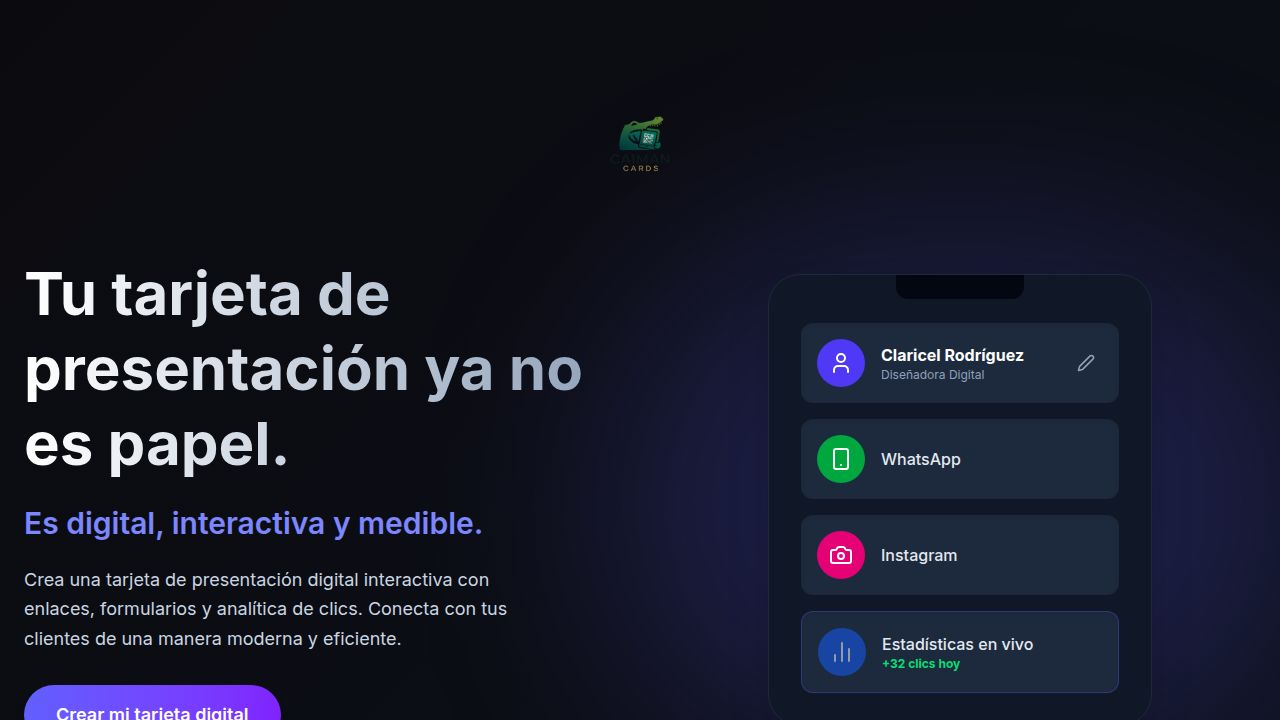
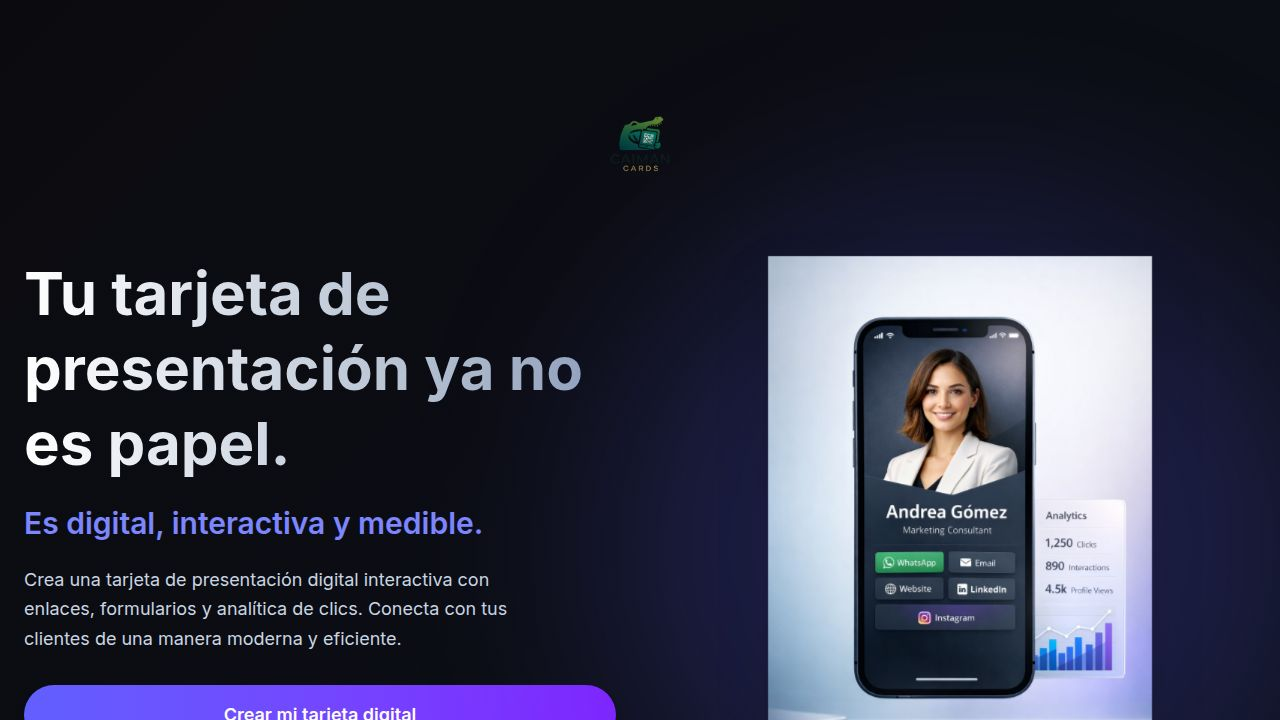
Update hero section with a digital card example and WhatsApp contact
Replace the simulated digital card with a real example image and add a WhatsApp contact button to the hero section.

Replit-Commit-Author: Agent
Replit-Commit-Session-Id: 8d44fd49-d4ca-4e78-9c49-adb27b62ca5c
Replit-Commit-Checkpoint-Type: full_checkpoint
Replit-Commit-Event-Id: ce6b0b7e-d683-48cc-96a0-a3cef1ceb572
Replit-Commit-Screenshot-Url: https://storage.googleapis.com/screenshot-production-us-central1/67a064b1-8e39-478f-a6c3-a872b4abc78c/8d44fd49-d4ca-4e78-9c49-adb27b62ca5c/0bKwFiG
Replit-Helium-Checkpoint-Created: true

Changed region(s): [[0.5938, 0.3361, 0.9062, 1.0], [0.0312, 0.9472, 0.5, 1.0]]

diff --git a/client/src/components/landing/hero.tsx b/client/src/components/landing/hero.tsx
@@ -1,33 +1,7 @@
-import { useState } from "react";
 import { motion } from "framer-motion";
-import { User, Smartphone, Camera, BarChart2, Edit2, Check } from "lucide-react";
+import { MessageCircle } from "lucide-react";
 
 export function Hero() {
-  const [isEditing, setIsEditing] = useState(false);
-  const [cardData, setCardData] = useState({
-    nombre: "Claricel Rodríguez",
-    titulo: "Diseñadora Digital",
-    whatsapp: "WhatsApp",
-    instagram: "Instagram",
-    clicks: "+32 clics hoy",
-  });
-
-  const [tempData, setTempData] = useState(cardData);
-
-  const handleEdit = () => {
-    setIsEditing(true);
-    setTempData(cardData);
-  };
-
-  const handleSave = () => {
-    setCardData(tempData);
-    setIsEditing(false);
-  };
-
-  const handleCancel = () => {
-    setIsEditing(false);
-  };
-
   return (
     <section className="relative pt-20 pb-20 px-6 max-w-7xl mx-auto">
       {/* Logo */}
@@ -42,11 +16,13 @@ export function Hero() {
         />
       </div>
 
-      <div className="grid md:grid-cols-2 gap-12 items-center">
+      <div className="grid md:grid-cols-2 gap-12 items-start">
+        {/* Left Content */}
         <motion.div
           initial={{ opacity: 0, x: -50 }}
           animate={{ opacity: 1, x: 0 }}
           transition={{ duration: 0.6 }}
+          className="flex flex-col justify-start"
         >
           <h1 className="text-4xl md:text-6xl font-bold mb-6 leading-tight bg-clip-text text-transparent bg-gradient-to-r from-white to-slate-400">
             Tu tarjeta de presentación ya no es papel.
@@ -58,170 +34,44 @@ export function Hero() {
             Crea una tarjeta de presentación digital interactiva con enlaces, formularios y analítica de clics.
             Conecta con tus clientes de una manera moderna y eficiente.
           </p>
-          <a 
-            href="#formulario" 
-            className="inline-block px-8 py-4 bg-gradient-to-r from-indigo-500 to-violet-600 text-white rounded-full font-semibold text-lg shadow-lg hover:shadow-indigo-500/30 transition-all hover:scale-105"
-          >
-            Crear mi tarjeta digital
-          </a>
+          
+          <div className="flex flex-col gap-4">
+            <a 
+              href="#formulario" 
+              className="inline-block px-8 py-4 bg-gradient-to-r from-indigo-500 to-violet-600 text-white rounded-full font-semibold text-lg shadow-lg hover:shadow-indigo-500/30 transition-all hover:scale-105 text-center"
+              data-testid="button-create-card"
+            >
+              Crear mi tarjeta digital
+            </a>
+            
+            <a
+              href="https://url-shortener--proyectooro69.replit.app/n2anr0"
+              target="_blank"
+              rel="noopener noreferrer"
+              className="inline-flex items-center justify-center gap-3 px-8 py-4 bg-gradient-to-r from-green-500 to-emerald-600 text-white rounded-full font-semibold text-lg shadow-lg hover:shadow-green-500/30 transition-all hover:scale-105"
+              data-testid="button-whatsapp-contact"
+            >
+              <MessageCircle size={24} />
+              Más información por WhatsApp
+            </a>
+          </div>
         </motion.div>
 
+        {/* Right - Example Card Image */}
         <motion.div 
-          className="relative"
+          className="relative flex justify-center"
           initial={{ opacity: 0, scale: 0.8 }}
           animate={{ opacity: 1, scale: 1 }}
           transition={{ duration: 0.6, delay: 0.2 }}
         >
-          <div className="bg-gray-900 border border-gray-800 rounded-[2rem] p-8 shadow-2xl relative z-10 max-w-sm mx-auto transform hover:rotate-0 transition-transform duration-500">
-            {/* Notch simulation */}
-            <div className="absolute top-0 left-1/2 -translate-x-1/2 w-32 h-6 bg-gray-950 rounded-b-xl z-20"></div>
-            
-            <div className="space-y-4 pt-4">
-              {/* Profile Header */}
-              <div className="bg-slate-800 p-4 rounded-xl flex items-center justify-between gap-4 shadow-inner">
-                <div className="flex items-center gap-4 flex-1">
-                  <div className="bg-indigo-600 p-3 rounded-full text-white">
-                    <User size={24} />
-                  </div>
-                  <div>
-                    <div className="font-bold text-white">{cardData.nombre}</div>
-                    <div className="text-xs text-slate-400">{cardData.titulo}</div>
-                  </div>
-                </div>
-                <button
-                  onClick={handleEdit}
-                  className="p-2 hover:bg-slate-700 rounded-lg transition-colors"
-                  title="Editar tarjeta"
-                  data-testid="button-edit-card"
-                >
-                  <Edit2 size={18} className="text-slate-400 hover:text-white" />
-                </button>
-              </div>
-
-              {/* Links */}
-              <div className="bg-slate-800 p-4 rounded-xl flex items-center gap-4 shadow-inner hover:bg-slate-700 transition-colors cursor-pointer group">
-                <div className="bg-green-600 p-3 rounded-full text-white group-hover:scale-110 transition-transform">
-                  <Smartphone size={24} />
-                </div>
-                <div className="text-slate-200 font-medium">{cardData.whatsapp}</div>
-              </div>
-
-              <div className="bg-slate-800 p-4 rounded-xl flex items-center gap-4 shadow-inner hover:bg-slate-700 transition-colors cursor-pointer group">
-                <div className="bg-pink-600 p-3 rounded-full text-white group-hover:scale-110 transition-transform">
-                  <Camera size={24} />
-                </div>
-                <div className="text-slate-200 font-medium">{cardData.instagram}</div>
-              </div>
-
-              <div className="bg-slate-800 p-4 rounded-xl flex items-center gap-4 shadow-inner border border-indigo-500/30">
-                <div className="bg-blue-600 p-3 rounded-full text-white animate-pulse">
-                  <BarChart2 size={24} />
-                </div>
-                <div>
-                  <div className="text-slate-200 font-medium">Estadísticas en vivo</div>
-                  <div className="text-xs text-green-400 font-bold">{cardData.clicks}</div>
-                </div>
-              </div>
-            </div>
-          </div>
-
+          <img
+            src="/digital-card-example.png"
+            alt="Ejemplo de tarjeta digital interactiva"
+            className="w-full max-w-sm drop-shadow-2xl"
+          />
+          
           {/* Decorative elements */}
           <div className="absolute top-1/2 left-1/2 -translate-x-1/2 -translate-y-1/2 w-[120%] h-[120%] bg-indigo-500/20 rounded-full blur-[100px] -z-10"></div>
-
-          {/* Edit Modal */}
-          {isEditing && (
-            <motion.div
-              initial={{ opacity: 0 }}
-              animate={{ opacity: 1 }}
-              exit={{ opacity: 0 }}
-              className="fixed inset-0 bg-black/50 flex items-center justify-center z-50 p-4"
-              onClick={handleCancel}
-            >
-              <motion.div
-                initial={{ scale: 0.9, y: 20 }}
-                animate={{ scale: 1, y: 0 }}
-                onClick={(e) => e.stopPropagation()}
-                className="bg-gray-900 border border-gray-800 rounded-2xl p-8 max-w-md w-full"
-              >
-                <h3 className="text-2xl font-bold mb-6 text-white">Editar tarjeta</h3>
-                
-                <div className="space-y-4">
-                  <div>
-                    <label className="block text-sm font-medium text-slate-300 mb-2">Nombre</label>
-                    <input
-                      type="text"
-                      value={tempData.nombre}
-                      onChange={(e) => setTempData({ ...tempData, nombre: e.target.value })}
-                      className="w-full px-4 py-2 bg-gray-800 border border-gray-700 rounded-lg text-white focus:border-indigo-500 outline-none transition-colors"
-                      data-testid="input-card-name"
-                    />
-                  </div>
-
-                  <div>
-                    <label className="block text-sm font-medium text-slate-300 mb-2">Título/Profesión</label>
-                    <input
-                      type="text"
-                      value={tempData.titulo}
-                      onChange={(e) => setTempData({ ...tempData, titulo: e.target.value })}
-                      className="w-full px-4 py-2 bg-gray-800 border border-gray-700 rounded-lg text-white focus:border-indigo-500 outline-none transition-colors"
-                      data-testid="input-card-title"
-                    />
-                  </div>
-
-                  <div>
-                    <label className="block text-sm font-medium text-slate-300 mb-2">WhatsApp</label>
-                    <input
-                      type="text"
-                      value={tempData.whatsapp}
-                      onChange={(e) => setTempData({ ...tempData, whatsapp: e.target.value })}
-                      className="w-full px-4 py-2 bg-gray-800 border border-gray-700 rounded-lg text-white focus:border-indigo-500 outline-none transition-colors"
-                      data-testid="input-whatsapp"
-                    />
-                  </div>
-
-                  <div>
-                    <label className="block text-sm font-medium text-slate-300 mb-2">Instagram</label>
-                    <input
-                      type="text"
-                      value={tempData.instagram}
-                      onChange={(e) => setTempData({ ...tempData, instagram: e.target.value })}
-                      className="w-full px-4 py-2 bg-gray-800 border border-gray-700 rounded-lg text-white focus:border-indigo-500 outline-none transition-colors"
-                      data-testid="input-instagram"
-                    />
-                  </div>
-
-                  <div>
-                    <label className="block text-sm font-medium text-slate-300 mb-2">Clicks de hoy</label>
-                    <input
-                      type="text"
-                      value={tempData.clicks}
-                      onChange={(e) => setTempData({ ...tempData, clicks: e.target.value })}
-                      className="w-full px-4 py-2 bg-gray-800 border border-gray-700 rounded-lg text-white focus:border-indigo-500 outline-none transition-colors"
-                      data-testid="input-clicks"
-                    />
-                  </div>
-                </div>
-
-                <div className="flex gap-4 mt-8">
-                  <button
-                    onClick={handleSave}
-                    className="flex-1 px-4 py-3 bg-gradient-to-r from-indigo-500 to-violet-600 text-white rounded-lg font-semibold hover:shadow-lg transition-all flex items-center justify-center gap-2"
-                    data-testid="button-save-card"
-                  >
-                    <Check size={18} />
-                    Guardar
-                  </button>
-                  <button
-                    onClick={handleCancel}
-                    className="flex-1 px-4 py-3 bg-gray-800 text-slate-300 rounded-lg font-semibold hover:bg-gray-700 transition-colors"
-                    data-testid="button-cancel-edit"
-                  >
-                    Cancelar
-                  </button>
-                </div>
-              </motion.div>
-            </motion.div>
-          )}
         </motion.div>
       </div>
     </section>
